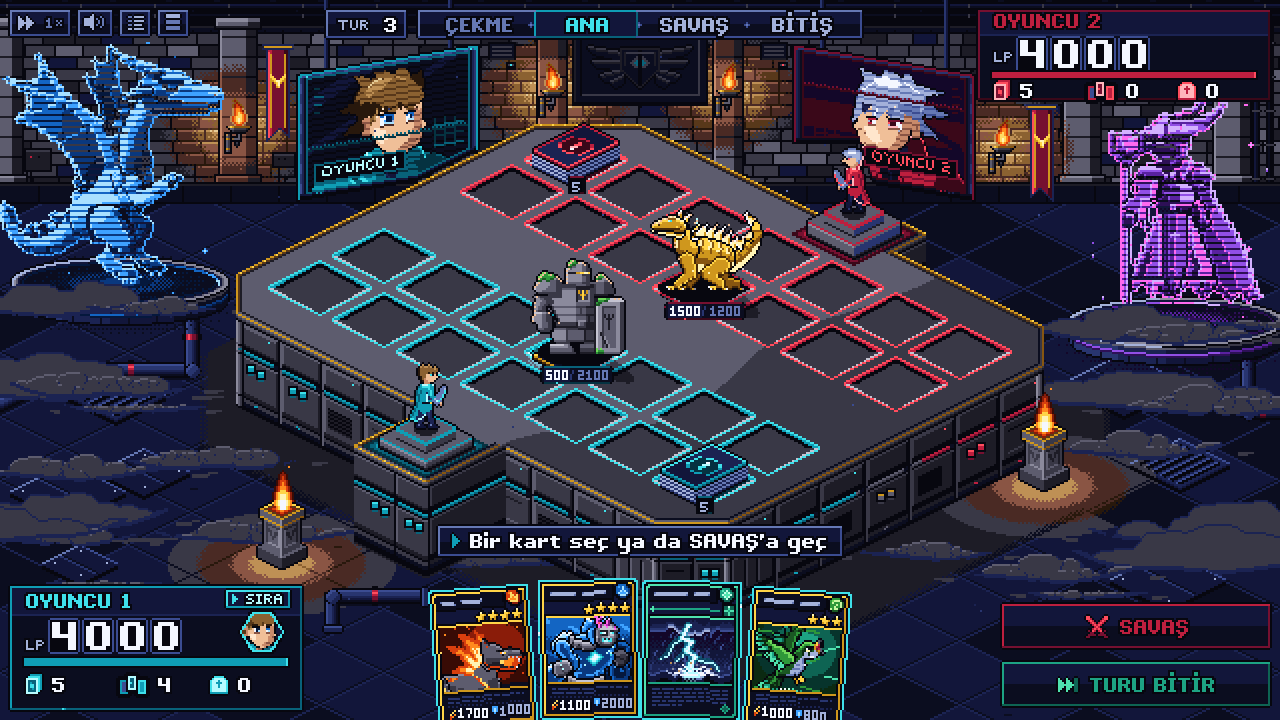
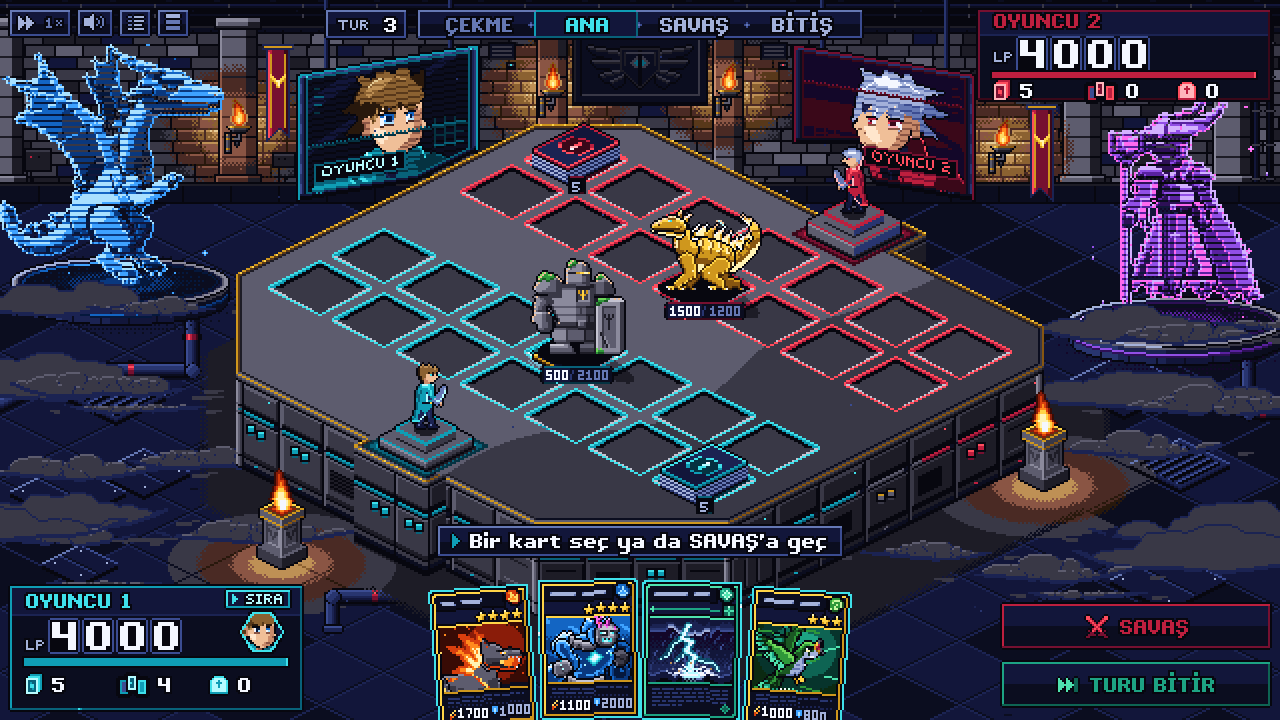
arena: restore the compact octagon stage (undo the final L-notch regression)
The final fixer pulled the near-left stage edge back in, which re-opened an L-shaped notch round the P1 dais.
Restore the round-3 geometry (and its tests); keep the other final polish. Typecheck clean, arena tests 34/34, palcheck PASS.

Claude-Session: https://claude.ai/code/session_01Qe4uUJ2dZKvTFhia6rbxti

diff --git a/tests/view/board-nt-layout.test.ts b/tests/view/board-nt-layout.test.ts
@@ -73,21 +73,16 @@ describe('neon tower layout map', () => {
     expect(len(4)).toBeGreaterThanOrEqual(16);
     expect(pts[2].y).toBe(pts[3].y);
     expect(len(2)).toBeGreaterThanOrEqual(48);
-    expect([Math.round(pts[7].x), Math.round(pts[6].x)]).toEqual([328, 364]);
-    for (const p of [0, 1] as const) {
-      const d = duelistXY(p);
-      // the 40×20 pad diamond around the feet: its back edge (P1: top → right tip; P2: left → bottom tip, parallel to the stage
-      // edge) is on the plate, 2 px further in (towards the pad centre) is already off it — flush, neither floating off the
-      // edge nor standing on the stage top
-      const back = p === 0 ? { x: d.x, y: d.y - 10 } : { x: d.x, y: d.y + 10 };
-      const inward = p === 0 ? 2 : -2;
-      expect(inside(back.x, back.y), `dais ${p} back tip on the plate`).toBe(true);
-      expect(inside(back.x, back.y + inward), `dais ${p} flush`).toBe(false);
-      expect(inside(d.x, d.y), `dais ${p} centre off the plate`).toBe(false);
-      expect(inside(d.x + (p === 0 ? 20 : -20), d.y), `dais ${p} back edge's other end`).toBe(true);
-      const others = (p === 0 ? [[-20, 0], [0, 10]] : [[20, 0], [0, -10]]).map(([dx, dy]) => inside(d.x + dx, d.y + dy));
-      expect(others.some(Boolean), `dais ${p} rest off the plate`).toBe(false);
-    }
+    // arena pixel/polish round 3: the near flat edge is 268..364 (the near-left edge moved out so the P1 dais stands ON the stage)
+    expect([Math.round(pts[7].x), Math.round(pts[6].x)]).toEqual([268, 364]);
+    // P1: the whole dais (40×20 pad + its 2 steps, ±24×12 round the feet) lies on the stage top — one convex block, no bump;
+    // P2: the dais still stands behind the far-right edge, its front tip flush on it
+    const d0 = duelistXY(0);
+    for (const [dx, dy] of [[-24, 0], [24, 0], [0, -12], [0, 12]]) expect(inside(d0.x + dx, d0.y + dy), `P1 dais ${dx},${dy} on the plate`).toBe(true);
+    const d1 = duelistXY(1);
+    expect(inside(d1.x, d1.y + 10), 'P2 dais front tip on the plate').toBe(true);
+    expect(inside(d1.x, d1.y + 8), 'P2 flush').toBe(false);
+    expect(inside(d1.x, d1.y), 'P2 dais centre off the plate').toBe(false);
   });
 
   it('keeps the platform inside the left panel edge, the HUD hint plate and the frame', () => {

diff --git a/src/view/board-nt/layout-nt.ts b/src/view/board-nt/layout-nt.ts
@@ -42,7 +42,9 @@ export function ntIso(col: number, row: number): XY {
 export const PLATE_C0 = -0.875;
 export const PLATE_C1 = NT_COLS - 0.5 + 0.375; // 6.875
 export const PLATE_R0 = -1.0625;
-export const PLATE_R1 = NT_ROWS - 0.5 + 0.5625; // 5.0625
+// arena pixel/polish round 3 (#1): the near-left edge moves out 30 px (0.9375 row) so the P1 dais stands ON the stage (one convex
+// block, no L notch round a protruding dais base); the far-right edge stays (the P2 dais keeps its ledge behind it).
+export const PLATE_R1 = NT_ROWS - 0.5 + 1.5; // 6.0
 /**
  * The chamfer lines (screen px): vertical end caps x, flat far / near edges y. Arena pass round 2: BIG cuts so the slab reads as
  * an octagon (hedef-gorunum-3): the side caps cut 20 px off the left / right tips (20-px tall vertical caps, still 10 px clear of
@@ -74,22 +76,22 @@ export function ntGrid(x: number, y: number): [number, number] {
 // The four sharp corners of the tight block are far (294, 49), right (542, 173), near (346, 271), left (98, 147); the
 // chamfer lines cut 13 px off the far tip, 9 px off the near tip and 20 px off the side tips (the near flat edge is 328..364).
 export const PLATE_OUTLINE: readonly [number, number][] = [
-  ntGrid(PLATE_X0, 157), // near-left corner (left face start)
+  ntGrid(PLATE_X0, 187), // near-left corner (left face start)
   ntGrid(PLATE_X0, 137), // left end cap, top
   ntGrid(268, PLATE_Y0), // far flat edge, left end
   ntGrid(320, PLATE_Y0), // far flat edge, right end
   ntGrid(PLATE_X1, 163), // right end cap, top
   ntGrid(PLATE_X1, 183), // right end cap, bottom
   ntGrid(364, PLATE_Y1), // near flat edge, right end (the near corner of the right face)
-  ntGrid(328, PLATE_Y1), // near flat edge, left end
+  ntGrid(268, PLATE_Y1), // near flat edge, left end
 ];
 
 /** The extreme points of the plate's top (screen): the middle of the flat far edge, the right / left end caps, the middle of the flat near edge. */
 export const PLATE_CORNERS = {
   apex: { x: 294, y: PLATE_Y0 },
   right: { x: PLATE_X1, y: 173 },
-  bottom: { x: 346, y: PLATE_Y1 },
-  left: { x: PLATE_X0, y: 147 },
+  bottom: { x: 316, y: PLATE_Y1 },
+  left: { x: PLATE_X0, y: 162 },
 } as const;
 
 /** Screen bounding box of the plate top (duelist pads are inside it). */

diff --git a/tests/art/arena-nt-platform.test.ts b/tests/art/arena-nt-platform.test.ts
@@ -62,8 +62,8 @@ describe('neon tower platform painters', () => {
     // the near flat edge (y 262) carries FACE_H rows of wall: last row opaque, the one below clear
     expect(op(346, 262 + FACE_H - 1)).toBe(true);
     expect(op(346, 262 + FACE_H + 1)).toBe(false);
-    // the left wall's column at x 200 starts under the plate edge (y = 157 + (x − 118) / 2) and is FACE_H tall
-    const top = 157 + (200 - 118) / 2;
+    // the left wall's column at x 200 starts under the plate edge (y = 187 + (x − 118) / 2) and is FACE_H tall
+    const top = 187 + (200 - 118) / 2;
     expect(op(200, top + FACE_H - 1)).toBe(true);
     expect(op(200, top + FACE_H + 1)).toBe(false);
     // a banded wall: five or more tones down one column of the lit face
@@ -85,7 +85,7 @@ describe('neon tower platform painters', () => {
     expect(at(521, 173)).toBe(PAL.gold1); // right end cap (last plate column)
     // panel seams: ink columns cut the lit wall's upper band at least every ~30 px
     const seamXs: number[] = [];
-    for (let x = 122; x < 326; x++) if (at(x, 157 + Math.floor((x + 0.5 - 118) / 2) + 8) === PAL.ink) seamXs.push(x);
+    for (let x = 122; x < 266; x++) if (at(x, 187 + Math.floor((x + 0.5 - 118) / 2) + 8) === PAL.ink) seamXs.push(x);
     expect(seamXs.length).toBeGreaterThanOrEqual(6);
     // small lit windows: cyan on the P1 (near-left) wall, crimson on the far half of the right wall
     const count = (x0: number, x1: number, c: number): number => {

diff --git a/src/art/arena-nt/pads.ts b/src/art/arena-nt/pads.ts
@@ -123,6 +123,9 @@ function paintBase(p: PixelCanvas, player: 0 | 1, foot: { x: number; y: number; 
   const m = 1;
   const qc = qOf(fx, fy);
   const oc = oOf(fx, fy);
+  // arena pixel/polish round 3 (#1): when the stage edge lies beyond the whole base (P1 now stands ON the widened stage) there
+  // is no bump to paint: the dais and its light pool sit straight on the stage top.
+  if (player === 0 && oc + foot.hh + m <= -2) return;
   const q0 = Math.floor(qc - foot.hh - m);
   const q1 = Math.ceil(qc + foot.hh + m);
   // P1 grows out (o > 0) and covers the stage rim rows inside (o down to -3); P2 grows back (o < 0) and covers o up to +2

diff --git a/docs/v3/oturum-arena.md b/docs/v3/oturum-arena.md
@@ -736,3 +736,12 @@ alçak katmanlı kayan sis; hologramlar parlak, tribünler kaldırılmış.
 Açık konular: P2 kürsüsü uzak kenarın arkasında ve P1'den küçük görünüyor; P1 kürsüsü dışarı çıkıntı olduğundan blok hafif
 L-çentikli okunuyor (hedefte kürsü sahnenin üstünde — iki doğrulayıcı turu zıt yön istedi, son karar: dışarı çıkıntı); tahta hedeften
 biraz serin (palette sıcak gri yok); kenar sisi mavimsi sınırda; ön sisin çoğu HUD altında.
+
+## Orchestrator correction after the final commit (2026-11-06 ~03:00 UTC)
+The final fixer (verifier item 1) moved the near-left stage edge back in (`PLATE_R1` 6.0 → 5.0625), which brought back a
+clear L-shaped notch round the protruding P1 dais (owner: "no L-shape"). Reverted that one change: `layout-nt.ts`, `pads.ts`
+and the two geometry tests are back to the pixel/polish round-3 state (`40c2458` / `3eac3f7`, the stage that the gates passed
+on), while the final fixer's other improvements (darker empty tile floors, narrower top light band, brighter sconce pools,
+darker pillar shade) are kept. Result: one compact chamfered octagon with the P1 dais standing on the stage
+(`shots/arena/fix-orch.png` = `docs/v3/ref/arena-sonrasi.png`). Re-checked: typecheck clean, arena tests 34/34, palcheck PASS
+(off 0.11 %, white 0.88 %), filmdiff v1 / a6v1 re-run (see below).
